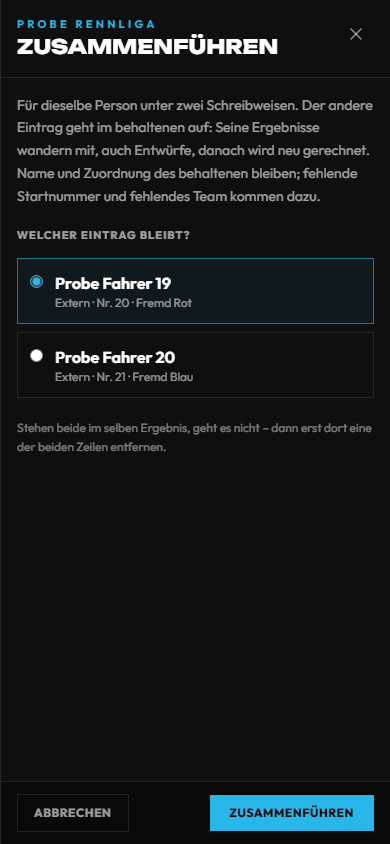
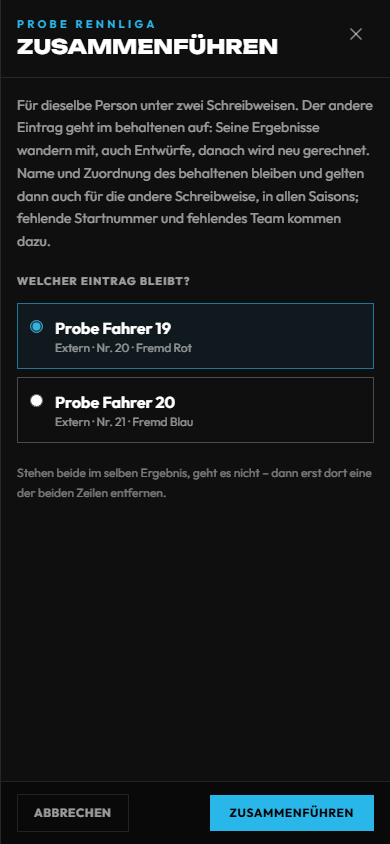
docs: Handbuch und Entwickler-Doku – Rückfrage, Aliase beim Zusammenführen (#1929)

Changed region(s): [[0.0308, 0.1848, 0.9538, 0.6161]]

diff --git a/docs/entwicklung/serien-ergebnisse.md b/docs/entwicklung/serien-ergebnisse.md
@@ -58,7 +58,7 @@ nach der Runde). Team-Liga: `matches` mit `home`, `away`, Ergebnis, `maps` und `
   alles, was Stände rechnet oder die Saison schließt, läuft also nacheinander.
 - **Zuordnung in anderen Saisons:** Zieht ein Alias andere Saisons mit, ändert die Zuordnung dort erst nach Freigabe
   der eigenen Sperre etwas – je Saison unter deren Sperre, Teilnehmer folgen und Neurechnen zusammen
-  (`reference_series.follow_alias_elsewhere`), nie zwei Sperren ineinander. Ist eine Saison gerade besetzt, bleibt die
+  (`reference_series.follow_aliases_elsewhere`), nie zwei Sperren ineinander. Ist eine Saison gerade besetzt, bleibt die
   eigene Zuordnung gültig, die andere Saison bleibt ganz unverändert und merkt sich den Nachtrag (`alias_followups`);
   der nächste Vorgang unter ihrer Sperre zieht ihn nach. Die Antwort nennt das (`other_series: {updated, pending}`,
   `notice`), das Protokoll ebenso (`also_assigned_in`, `pending_series`).
@@ -67,9 +67,14 @@ nach der Runde). Team-Liga: `matches` mit `home`, `away`, Ergebnis, `maps` und `
   Saison schon gibt, bekommt 409 (zusammenführen). `POST …/participants/bulk-assign` (`participant_ids`, `link` „guest“
   oder „external“) ordnet alle unter einer Sperre zu und rechnet einmal neu; andere Saisons ziehen danach je einmal
   nach (`reference_series.follow_aliases_elsewhere`). `POST …/participants/{id}/merge` (`duplicate_id`) schreibt die
-  Kennung in Blättern, Entwürfen daneben und offiziellen Werten um (Version +1 je Blatt) und rechnet neu – nennt ein
-  Inhalt beide, 409 und nichts geändert. `DELETE …/participants/{id}` nur ohne Ergebnis (sonst 409). Protokoll:
-  `.participant_bulk_assign`, `.participant_merge`, `.participant_delete`.
+  Kennung in Blättern, Entwürfen daneben und offiziellen Werten um (je Blatt eine Revision mit Grund `merge` und
+  Version +1) und rechnet neu – nennt ein Inhalt beide, 409 und nichts geändert. Die Aliase der anderen Schreibweise
+  ziehen zum behaltenen um (`extra_alias_ids`) und folgen seiner Zuordnung, auch in anderen Saisons.
+  `DELETE …/participants/{id}` nur ohne Ergebnis (sonst 409). Protokoll: `.participant_bulk_assign`,
+  `.participant_merge`, `.participant_delete`.
+- **Alle Aliase eines Teilnehmers:** der seiner Zuordnung (`alias_id`), der seines Namens und weitere aus
+  Zusammenführen oder einem früheren Namen (`extra_alias_ids`). Zuordnen gleicht alle an: „Extern“ nimmt alle zurück,
+  Mitglied und Gast lassen alle auf dieselbe Person zeigen – je Saison unter ihrer Sperre.
 - `expected_version` ist Pflicht (0 ohne Blatt); ein veralteter Stand der Seite bekommt 409. Zwei gleichzeitige
   Übernahmen auf denselben Stand: eine gewinnt, die andere bekommt 409.
 - Ist das Blatt veröffentlicht und die Person darf nicht veröffentlichen (`target: "pending_draft"`), landet die

diff --git a/docs/handbuch/inhalte.md b/docs/handbuch/inhalte.md
@@ -499,15 +499,18 @@ für ein Vereinsteam, ist aber kein Mitglied, **Extern** sind alle anderen. Übe
 **Mitglieder**, **Gäste**, **Extern** oder **Offen** und sucht nach Name, Startnummer, Team oder Profil.
 
 - **Bearbeiten** (Stift am Ende der Zeile): Name wie beim Veranstalter, Startnummer, Standard-Team und die Zuordnung
-  (Mitglied mit Profil, Gast oder Extern). Wird ein Mitglied extern, fragt die Seite nach – der Alias wird dann auch in
-  anderen Saisons zurückgenommen. Gibt es den neuen Namen in der Saison schon, sagt die Seite das: dann zusammenführen.
+  (Mitglied mit Profil, Gast oder Extern). Wird ein Mitglied oder Gast extern, fragt die Seite nach – jeder Alias des
+  Teilnehmers wird dann in allen Saisons zurückgenommen. Gibt es den neuen Namen in der Saison schon, sagt die Seite
+  das: dann zusammenführen.
 - **Mehrere auf einmal:** Haken setzen – **Alle auswählen** nimmt nur, was Filter und Suche gerade zeigen – und
-  **Als Gast** oder **Als Extern**. Die Saison wird danach einmal neu gerechnet, andere Saisons mit demselben Alias
-  ziehen mit. Beispiel: alle Fremden versehentlich als Gast angelegt – Filter **Gäste**, **Alle auswählen**, die echten
-  Gäste wieder abwählen, **Als Extern**.
+  **Als Gast** oder **Als Extern**. Geht dabei eine Zuordnung verloren, fragt die Seite einmal für alle nach. Die
+  Saison wird danach einmal neu gerechnet, andere Saisons mit demselben Alias ziehen mit. Beispiel: alle Fremden
+  versehentlich als Gast angelegt – Filter **Gäste**, **Alle auswählen**, die echten Gäste wieder abwählen,
+  **Als Extern**, bestätigen.
 - **Zusammenführen:** Genau zwei auswählen (dieselbe Person unter zwei Schreibweisen) und festlegen, welcher Eintrag
-  bleibt. Die Ergebnisse des anderen wandern mit, auch Entwürfe, danach wird neu gerechnet. Stehen beide im selben
-  Ergebnis, geht es nicht – dort erst eine der beiden Zeilen entfernen.
+  bleibt. Die Ergebnisse des anderen wandern mit, auch Entwürfe, danach wird neu gerechnet; jedes geänderte Ergebnis
+  behält seinen alten Stand als Revision. Die Zuordnung des behaltenen gilt danach auch für die andere Schreibweise, in
+  allen Saisons. Stehen beide im selben Ergebnis, geht es nicht – dort erst eine der beiden Zeilen entfernen.
 - **Entfernen** steht im Blatt „Teilnehmer bearbeiten“ nur bei Namen ohne Ergebnis; sonst führt der Weg übers
   Zusammenführen.
 
